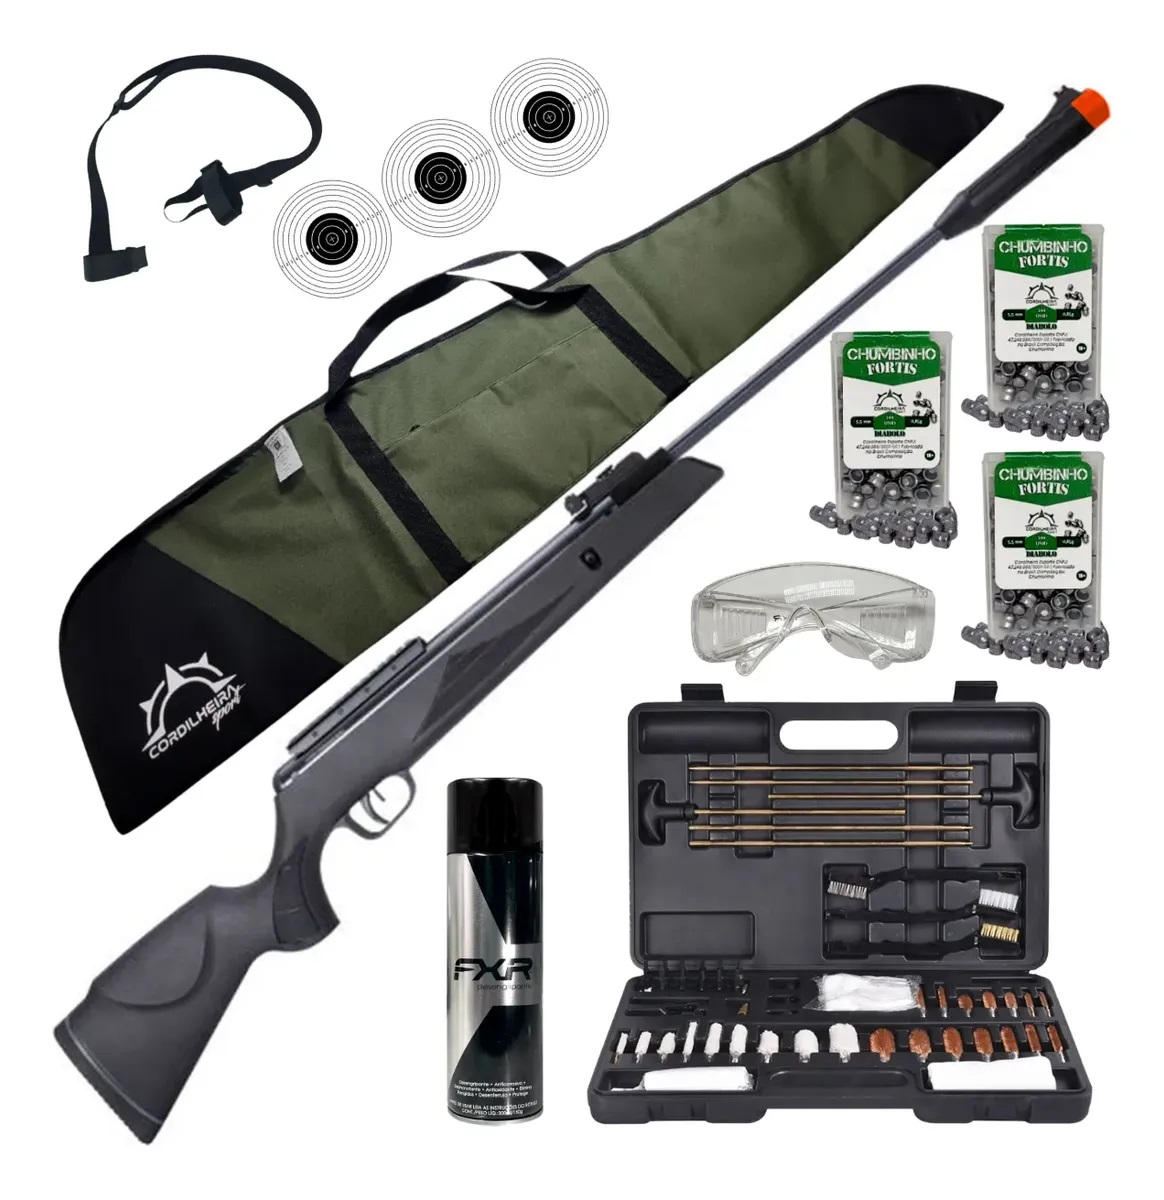
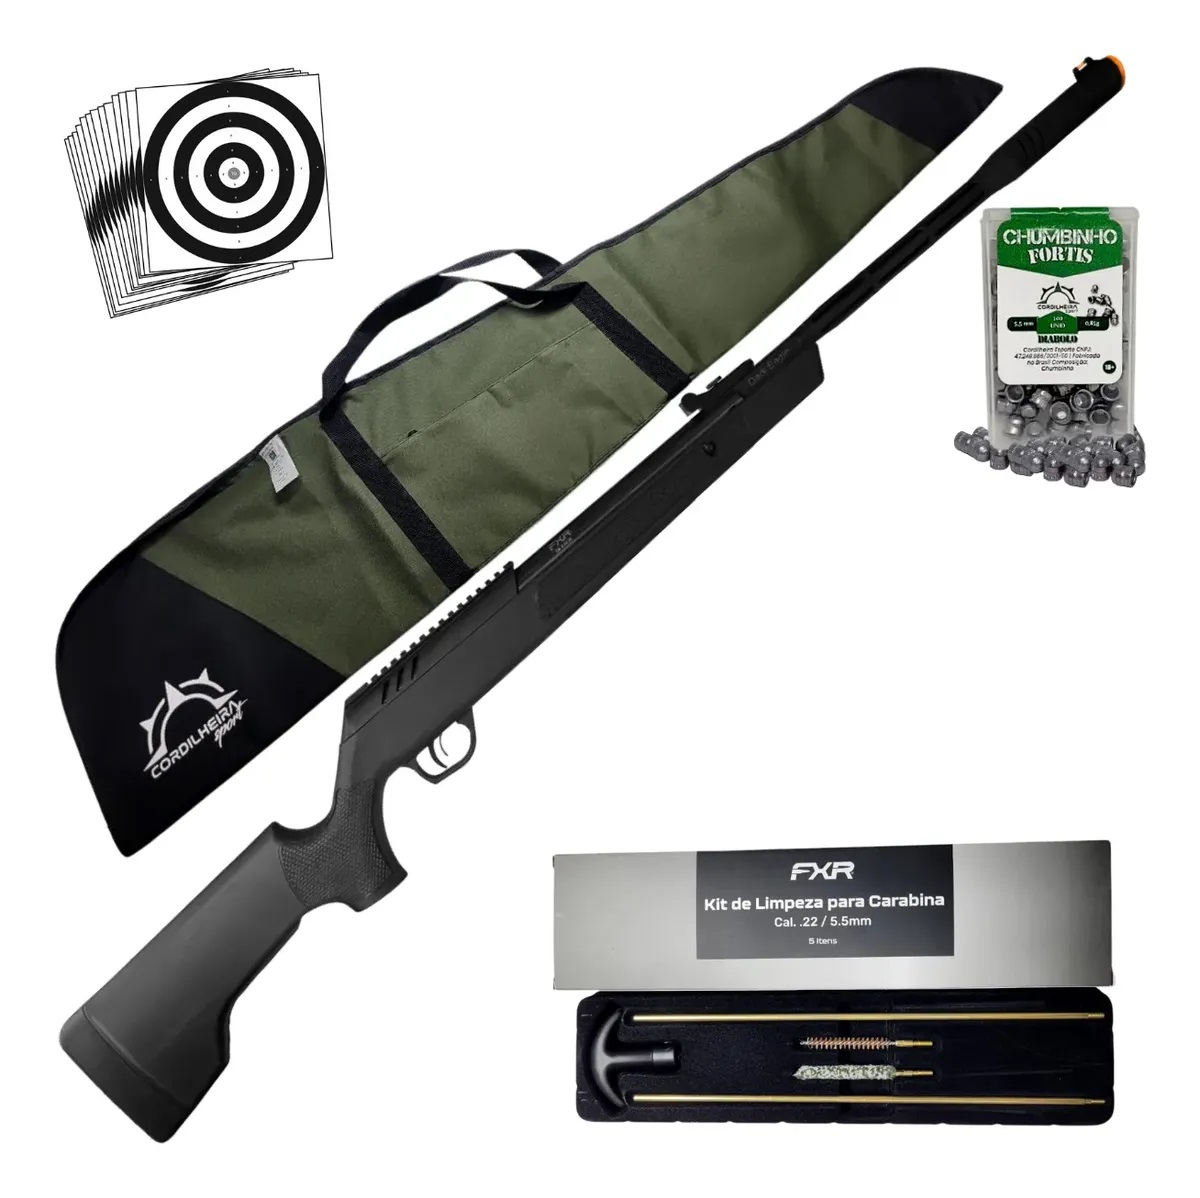
correção fotos kit black hawk e dark eagle

diff --git a/index.html b/index.html
@@ -26,7 +26,7 @@
     <a href="https://meli.la/1n865hi" target="_blank"
       >Compre agora no Mercado Livre</a
     >
-  
+
     <div id="profile">
       <p>Melhor kit custo beneficio de entrada</p>
     </div>
@@ -44,7 +44,7 @@
     </div>
     <span>Carabina Pressão Artemis Gásram 70kg Black Hawk Sr1000s 5.5</span>
     <img
-      src="./assets/produtos/kit black hawk novo 4.jpg"
+      src="./assets/produtos/kit black hawk - 2.jpg"
       alt="erro - foto do kit black hawk"
     />
     <a href="https://meli.la/1pDv1Qc" target="_blank"